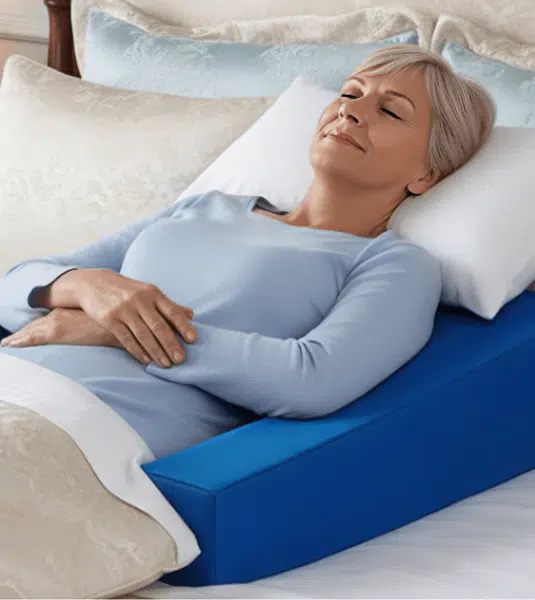
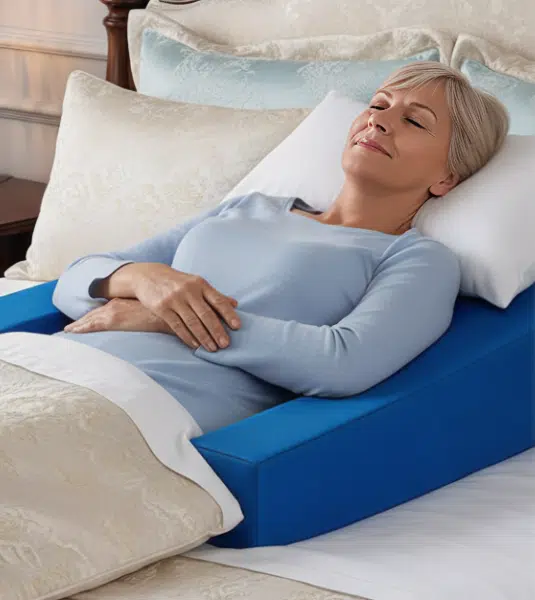
Restore 4-line H1 stack (Sleep / Better. / Heal / Faster.); update pain cards + product image to user-uploaded files

diff --git a/home/index.html b/home/index.html
@@ -66,8 +66,10 @@
         <div class="hero__copy">
           <p class="eyebrow hero__eyebrow" data-reveal>For shoulder, rotator cuff &amp;<br/>post-surgical recovery</p>
           <h1 class="hero__headline" data-reveal data-reveal-delay="1">
-            <span>Sleep Better.</span>
-            <span class="ital">Heal Faster.</span>
+            <span>Sleep</span>
+            <span class="ital">Better.</span>
+            <span>Heal</span>
+            <span>Faster.</span>
           </h1>
           <p class="hero__sub" data-reveal data-reveal-delay="2">
             The clinically positioned pillow system designed for surgery recovery, so you can rest in your own bed, not stuck in a recliner.
@@ -118,7 +120,7 @@
           </article>
           <article class="pain-card" data-reveal data-reveal-delay="1">
             <div class="pain-card__img">
-              <img src="../assets/images/pain-uncomfortable.jpg" alt="Diagram of better positioning for shoulder surgery recovery" loading="lazy" />
+              <img src="../assets/images/pain-uncomfortable.jpg" alt="Woman in a sling unable to find a comfortable position after shoulder surgery" loading="lazy" />
             </div>
             <div class="pain-card__body">
               <span class="pain-card__num">02 / The Position</span>
@@ -128,7 +130,7 @@
           </article>
           <article class="pain-card" data-reveal data-reveal-delay="2">
             <div class="pain-card__img">
-              <img src="../assets/images/pain-exhausted.jpg" alt="Patient unable to sleep at night after shoulder surgery, exhausted in bed" loading="lazy" />
+              <img src="../assets/images/pain-exhausted.jpg" alt="Exhausted senior man with shoulder pain being examined by doctor" loading="lazy" />
             </div>
             <div class="pain-card__body">
               <span class="pain-card__num">03 / The Cost</span>